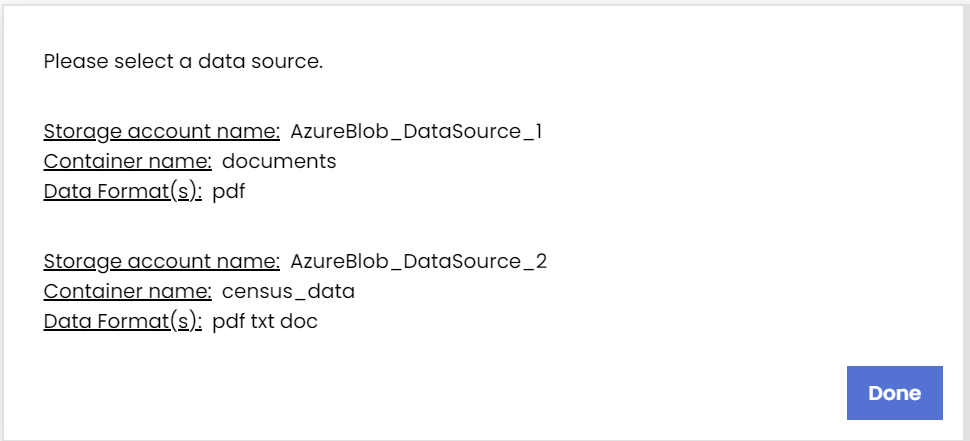
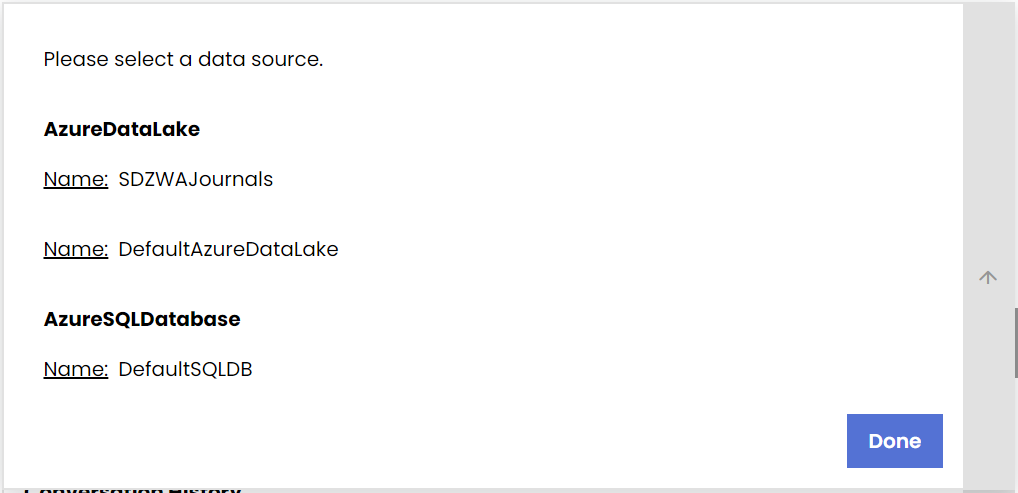
Management UI documentation fix.

diff --git a/docs/setup-guides/management-ui/management-ui.md b/docs/setup-guides/management-ui/management-ui.md
@@ -8,7 +8,7 @@ The Management UI enables FLLM administrators to configure agents without direct
     
     ![FLLM Create New Agent tab.](../media/fllm-management-interface.png "Create New Agent")
 
-2. Set the agent type: **Knowledge Management** or **Analytics**.
+2. Set the agent type: **Knowledge Management** or **Analytics**. FoundationaLLM currently only supports Knowledge Management agents.
 
     ![Create New Agent select Agent Type.](../media/agent-type-selection.png "Agent Type")
 
@@ -16,19 +16,19 @@ The Management UI enables FLLM administrators to configure agents without direct
 
     ![Agent Knowledge Source four-tile view.](../media/agent-knowledge-source.png "Agent Knowledge Source")
 
-     - Expand the dropdown arrow next to the upper left box. Select the entry with the correct **Storage account name**, artifacts **Container name**, and file **Data Format(s)**. Then, select **Done**.
+     - Expand the dropdown arrow next to the upper left box. Select the correct Content Source Profile.
 
         ![Agent Blob Storage Data Sources.](../media/agent-data-source-dropdown.png "Blob Storage Data Sources")
 
-     - Expand the dropdown arrow next to the upper right box to open the Azure AI Search index dropdown. The vectorized content will be populated in the selected index. Select **Done**.
+     - Expand the dropdown arrow next to the upper right box to open the Indexing Profile dropdown. Select the correct Indexing Profile.
 
         ![Agent Knowledge Source Index Selection.](../media/aisearch-index-dropdown.png "Index Selection")
      
-     - Expand the dropdown arrow next to the lower left box. Set the **Chunk size** and **Overlap size** settings for vectorization. Select **Done**.
+     - Expand the dropdown arrow next to the lower left box. Set the **Chunk size** and **Overlap size** settings for text partitioning. Select **Done**.
 
         ![Agent Splitting & Chunking Configuration.](../media/set-splitting-and-chunking.png "Splitting & Chunking")
 
-     - Expand the dropdown arrow next to the lower right box. Set the trigger **Frequency** and select **Done**.
+     - Expand the dropdown arrow next to the lower right box. Set the trigger **Frequency**; FoundationaLLM currently only supports Manual triggers.
 
         ![Agent Vectorization Trigger Frequency.](../media/vectorization-trigger.png "Vectorization Trigger Frequency")
 
@@ -51,4 +51,6 @@ The Management UI enables FLLM administrators to configure agents without direct
 
     ![Set Agent Prompt.](../media/set-system-prompt.png "Agent Prompt")
 
-6. After setting the desired agent configuration, select **Create Agent** at the bottom right-hand corner of the page. You will be able to edit the agent configuration after creation.
+6. After setting the desired agent configuration, select **Create Agent** at the bottom right-hand corner of the page. You will be able to edit the agent configuration after creation from the **Public Agents** page.
+
+    ![Edit a newly-created agent in the Management UI.](../media/edit-agent-page.png "Edit agent")
